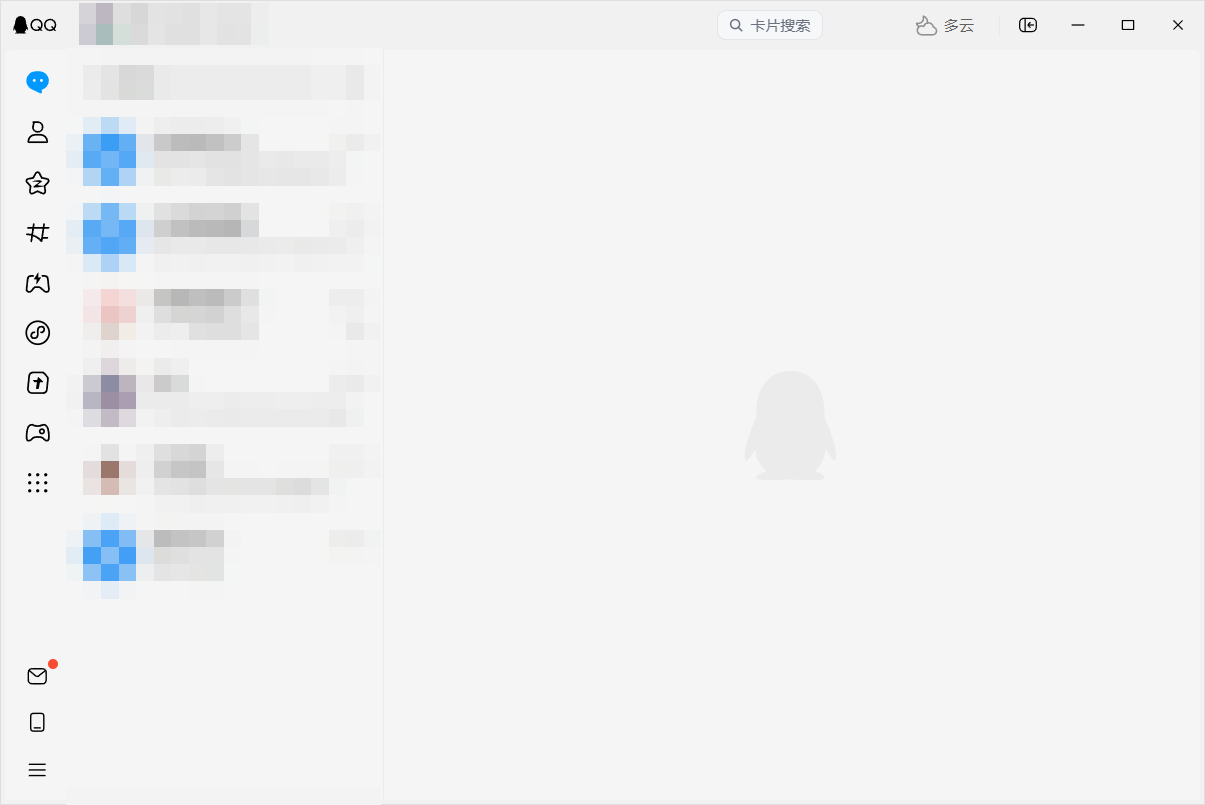
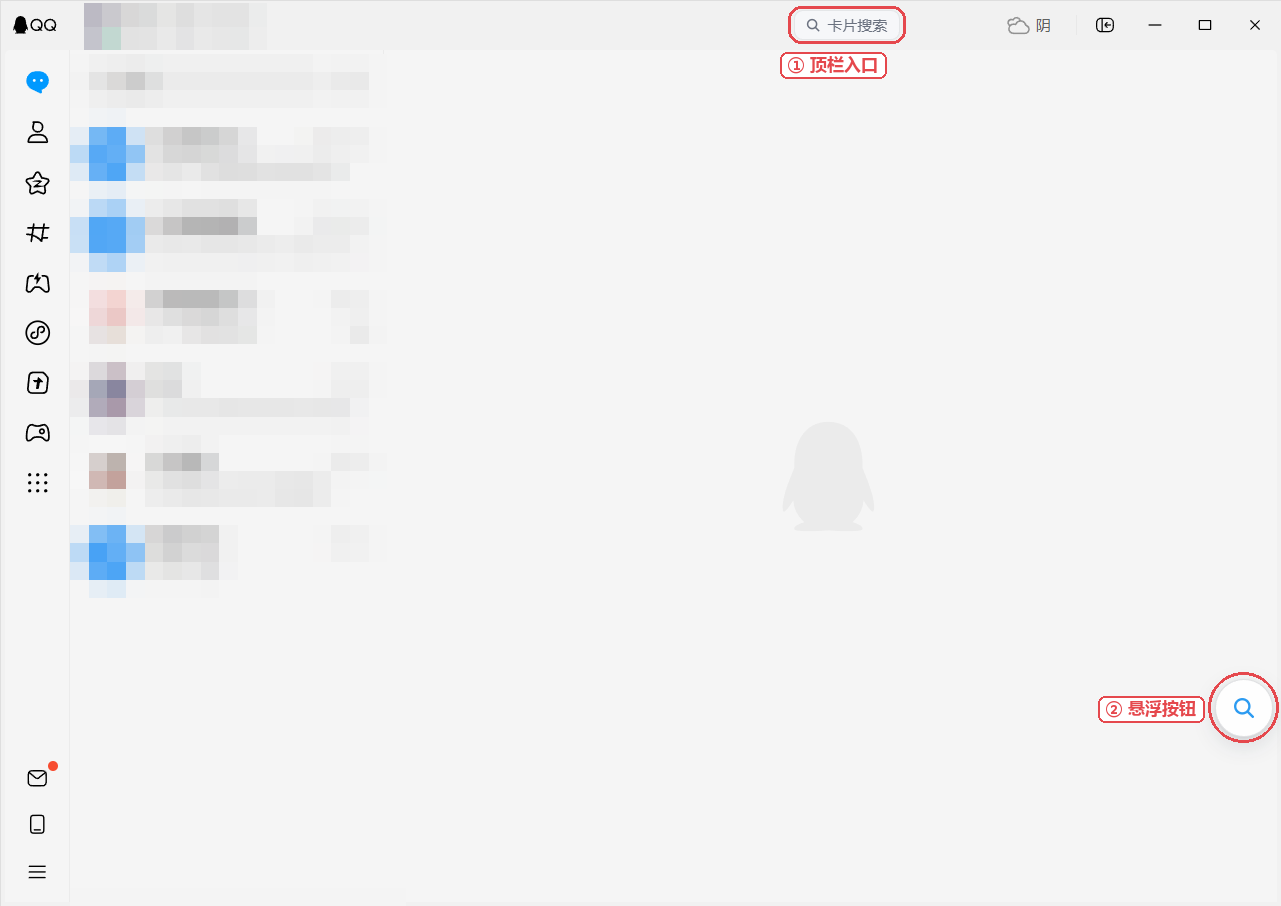
docs: 截图改成标注版，直接圈出入口位置
- overview 用红框+编号标出两个入口，不再是一张模糊的 QQ 窗口
- 新增 entry-topbar / entry-float 两张放大图
- 弹窗图自动检测面板边界裁切，去掉多余遮罩
- tools/annotate_screenshots.py 可复现

diff --git a/README.md b/README.md
@@ -6,15 +6,29 @@
 
 ## 界面
 
-| 主面板（右上角入口 + 右下角悬浮按钮） | 悬浮按钮（可拖动，位置会记住） |
+### 入口在哪
+
+装好之后，QQ 主面板上有两个入口，红框标出来的就是：
+
+![主面板上的两个入口](docs/screenshots/overview.png)
+
+| ① 顶栏「卡片搜索」 | ② 右下角悬浮球 |
 |---|---|
-| ![主面板](docs/screenshots/overview.png) | ![悬浮按钮](docs/screenshots/float-button.png) |
+| ![顶栏入口](docs/screenshots/entry-topbar.png) | ![悬浮按钮](docs/screenshots/entry-float.png) |
+
+- 顶栏那个：跟着 QQ 顶栏走，窗口缩放时位置不变，永远在窗口按钮左边
+- 悬浮球：按住能拖，拖到哪记到哪，下次启动还在那
+- 两个都不点也行，`Alt + S` 一样能开
+
+### 打开的弹窗
 
 | 浅色 | 深色 |
 |---|---|
 | ![浅色弹窗](docs/screenshots/popup-light.png) | ![深色弹窗](docs/screenshots/popup-dark.png) |
 
-> 截图里的会话列表和昵称做了马赛克处理。
+默认跟随系统深浅色，不用自己选。
+
+> 截图里的会话列表和昵称做了马赛克处理；弹窗是刚装好、还没收录卡片时的样子。
 
 ---
 
